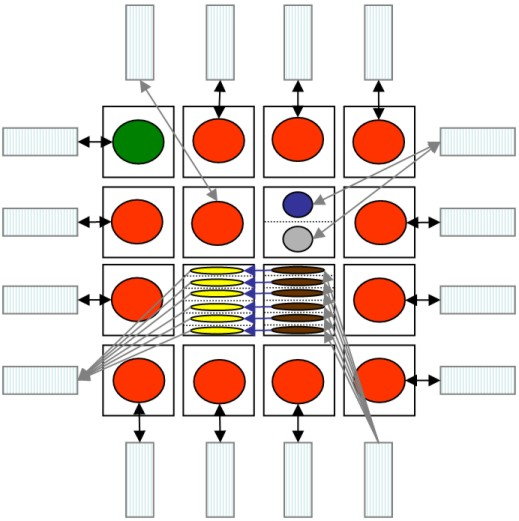
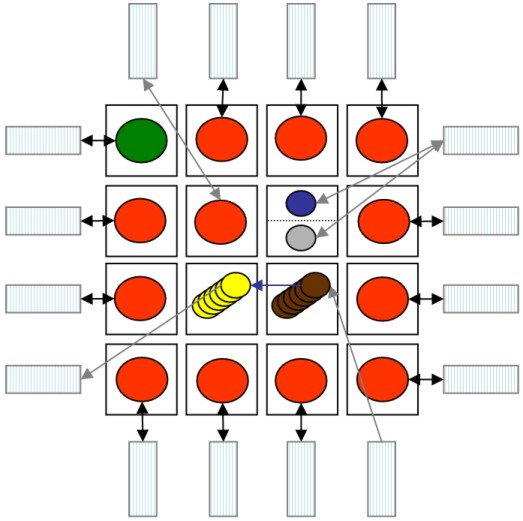
final version of abstract.
git-svn-id: https://svn.csail.mit.edu/streamit/trunk@8584 fb122d4e-f3b4-4596-99d2-990b948fa53d

diff --git a/streams/docs/csail-abstract-spacetime-06/mgordon.html b/streams/docs/csail-abstract-spacetime-06/mgordon.html
@@ -97,25 +97,51 @@ results in optimal usage of the tiles for each piece.</p>
 </div>
 
 <p>We will now present a small example to solidify the reader's
-understanding of our work.  In the above figure we show the
-stream graph for a simple channel vocoder.  The dark ovals denote the
-linear filters of the application.  The white ovals are non-linear but
-stateless filters and thus can be data-parallelized.</p>
+understanding of our work.  In the above figure we show the slice
+graph for our FMRadio benchmark, an implementation of a software
+FMRadio with a 7-way equalizer.  The exact implementation is
+irrelevant to our discussion.  In the Figure, the colored ovals denote
+filters and the blue boxes around filters denote the slices of the
+graph. In this particular application the 12 red filters and the green
+filter each perform an equal workload and together account for over
+95% of the workload of the steady-state as calculated by our static
+workload estimation algorithm.</p>
 
 <div align="center">
-<img src="mgordon_figure2.jpg" alt="Figure 2: Mapping the FMRadio to a 4x4 Raw Microprocessor" width="519" height="521">
+<img src="mgordon_figure2.jpg" alt="Figure 2: Mapping the FMRadio to a 4x4 Raw Microprocessor" width="523" height="521">
 </div>
 
-<p>An example mapping of this application to a 16 tile Raw
-configuration (figure above) first executes the top low-pass filter
-slice, occupying the entire Raw chip and executing enough times to
-supply the subsequent slices. Next, each band-pass slice will occupy a
-quarter of the chip, executing the 4 bands in parallel.  Remember that
-each of the above slices are linear and our parameterized linear code
-generation provides near-optimal utilization. Finally, the non-linear,
-stateless pitch detector slice is data-parallelized across the entire
-Raw chip. Each slice reads its input from and writes its output to
-off-chip DRAM.<p>
+<p>An example steady-state execution of the FMRadio application on a
+16 tile Raw configuration is shown above.  In the figure we see the 16
+raw tiles represented as a 4x4 array of squares.  The off-chip DRAM
+modules are shown as rectangles attached to the border tiles.</p>  
+
+<p>In the mapping, the 12 slices composed of a red filter and the one
+slice composed of the green filter each occupy their own tile.  The
+blue filter and the gray filter share a tile.  The 6 slices composed
+of a brown filter and a yellow filter occupy 2 tiles.  In the figure,
+the black arrows denote communication to and from off-chip memory over
+Raw's static network, the gray arrows denote communication to and from
+off-chip memory using Raw's dynamic network, and the blue arrows
+denote intra-slice communication between filters of a single slice
+utilizing Raw's static network.</p>
+
+<p>Since the steady-state is software pipelined and adequately
+buffered, we do not directly communicate data between slices during
+its execution. Before each steady-state we perform a
+data-reorganization stage that shuttles data between DRAMs to prepare
+for the next steady-state iteration.  In this example, the
+data-reorganization stage performs the data splitting occurring after
+the gray filter, the joining before each brown filter, and the joining
+before the blue filter.</p>
+
+<p> In this mapping, each bottleneck filter (red or green) occupies
+its own tile and is busy computing nearly the entire steady-state for
+very high computational utilization.  These bottleneck tiles are not
+burdened with other work not on the critical path. This mapping is
+completely automated and achieves a 2-fold increase in terms of
+throughput versus a space-multiplexed mapping of the FMRadio
+application.  </p>
 
 <h5>Progress</h5> 
 
@@ -142,11 +168,11 @@ In our translation, each slice is represented by a shape, and each Raw
 tile is a represented as a bin.  See the figure above for a sample
 3-dimensional bin-packing of slice objects.  The shape of each object
 is dependent upon the properties of the filters of the slice it
-represents and its assignment to bins (tiles).  The height of a slice
-object is calculated from a static estimation of the slice's work load
-as it varies with each filter of the slice. In the figure above, note
-the step shape of each slice due to the pipelining of the filters that
-compose the slice.</p>
+represents and the filter's assignment to bins (tiles).  The height of
+a slice object is calculated from a static estimation of the slice's
+work load as it varies with each filter of the slice. In the figure
+above, note the step shape of each slice due to the pipelining of the
+filters that compose the slice.</p>
 
 <p>We use simulated annealing to arrive at an optimized solution to the
 bin-packing and thus a schedule.  Although in previous work simulated
